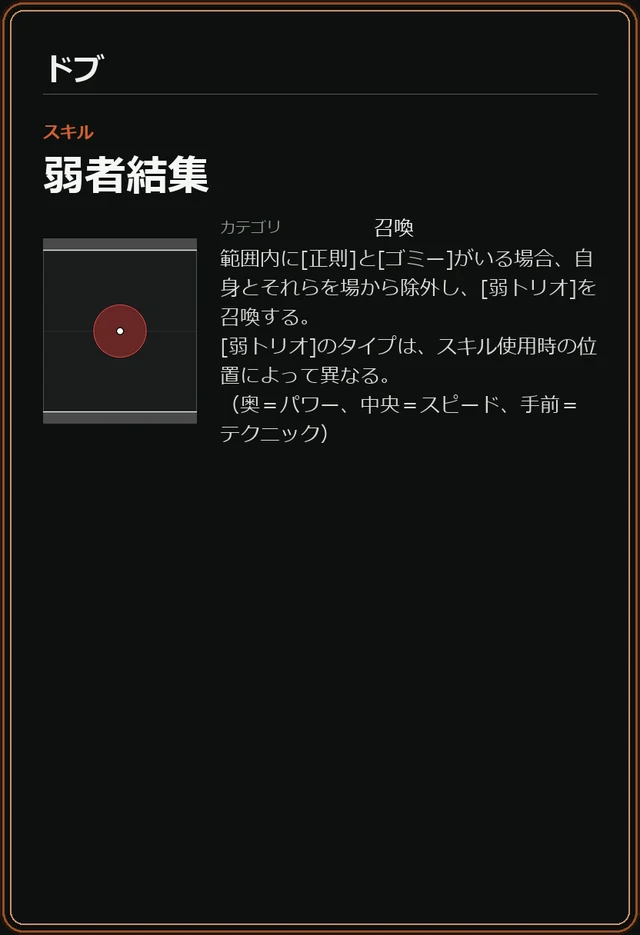
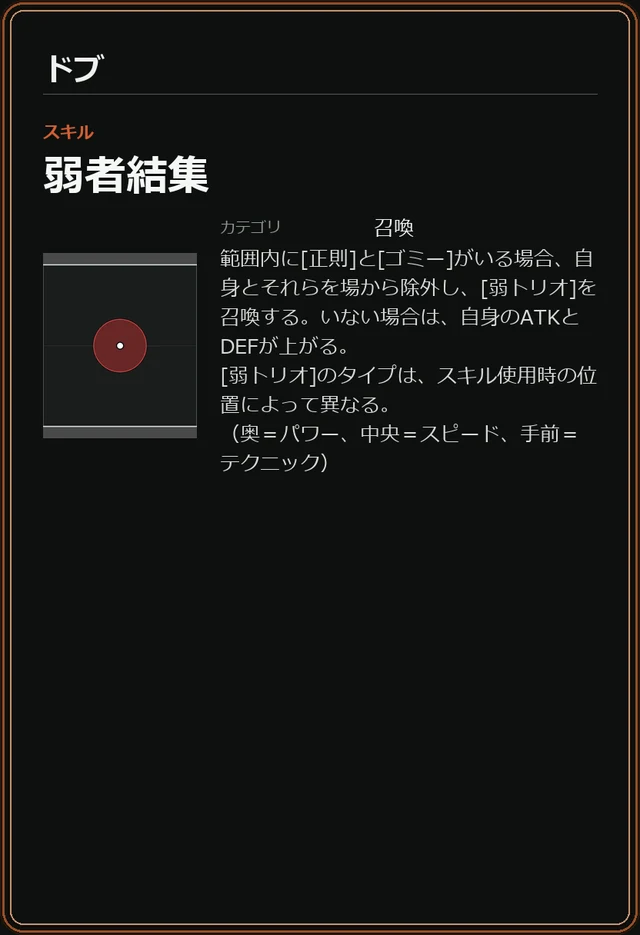
廃墟ページ: ドブ「弱者結集」の説明に失敗時の一文（いない場合は、自身のATKとDEFが上がる。）を追加・裏面2枚目も作り直し。チャスキの裏面2枚目は「DEF」が行の途中で割れていたのを直した

Changed region(s): [[0.3438, 0.3102, 0.9375, 0.4963], [0.0625, 0.2481, 0.3125, 0.4032], [0.0625, 0.4342, 0.3125, 0.4963]]

diff --git a/characters-ruins.html b/characters-ruins.html
@@ -88,7 +88,7 @@
                     <span class="unit-species">ドブネズミ</span>
                     <div class="unit-meta"><span class="unit-tag rar-c">C</span><span class="unit-tag type-neutral">NEUTRAL</span></div>
                     <span class="unit-skill">弱者結集</span>
-                    <span class="unit-summary">範囲内に[正則]と[ゴミー]がいる場合、自身とそれらを戦場から除外し、[弱トリオ]を召喚する。<br>[弱トリオ]のタイプは、スキル使用時の位置によって異なる。<br>（奥＝パワー、中央＝スピード、手前＝テクニック）</span>
+                    <span class="unit-summary">範囲内に[正則]と[ゴミー]がいる場合、自身とそれらを戦場から除外し、[弱トリオ]を召喚する。いない場合は、自身のATKとDEFが上がる。<br>[弱トリオ]のタイプは、スキル使用時の位置によって異なる。<br>（奥＝パワー、中央＝スピード、手前＝テクニック）</span>
                     <div class="video-placeholder unit-video">SKILL MOVIE / COMING SOON</div>
                 </div>
             </div>
